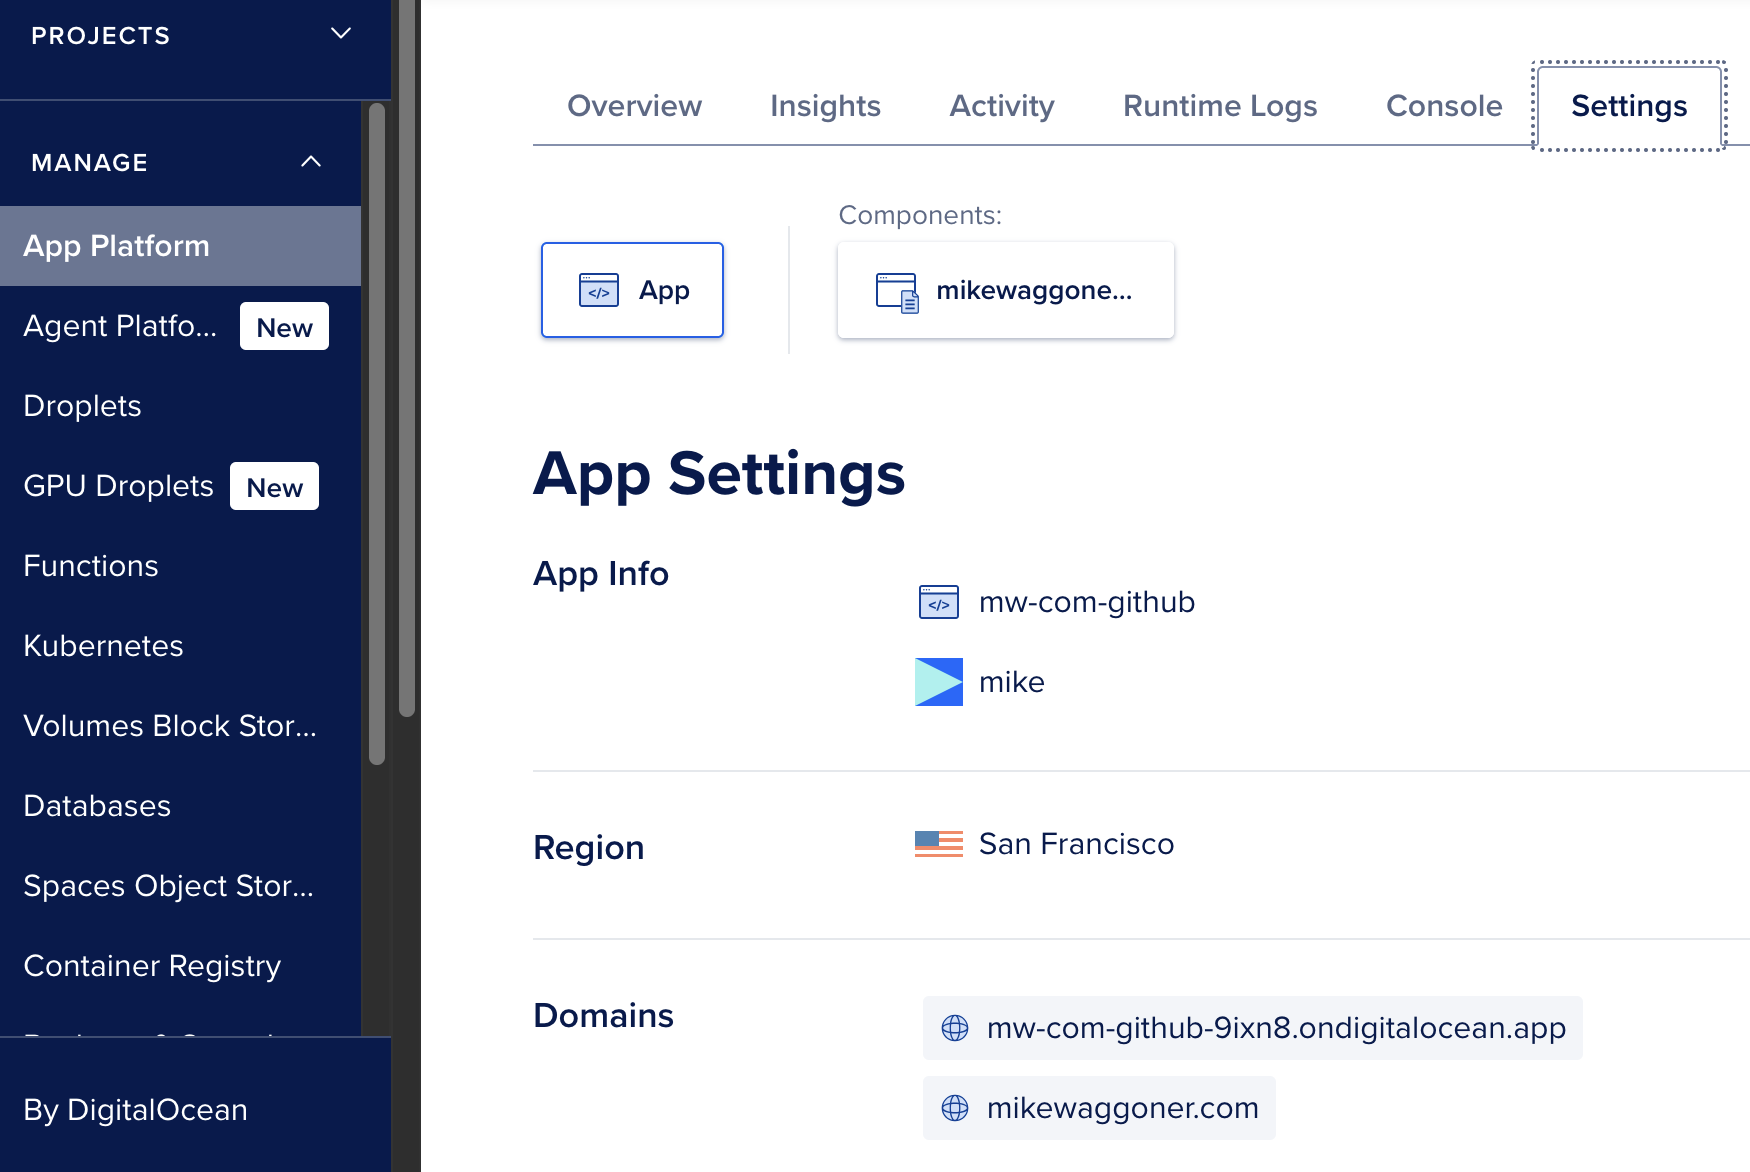
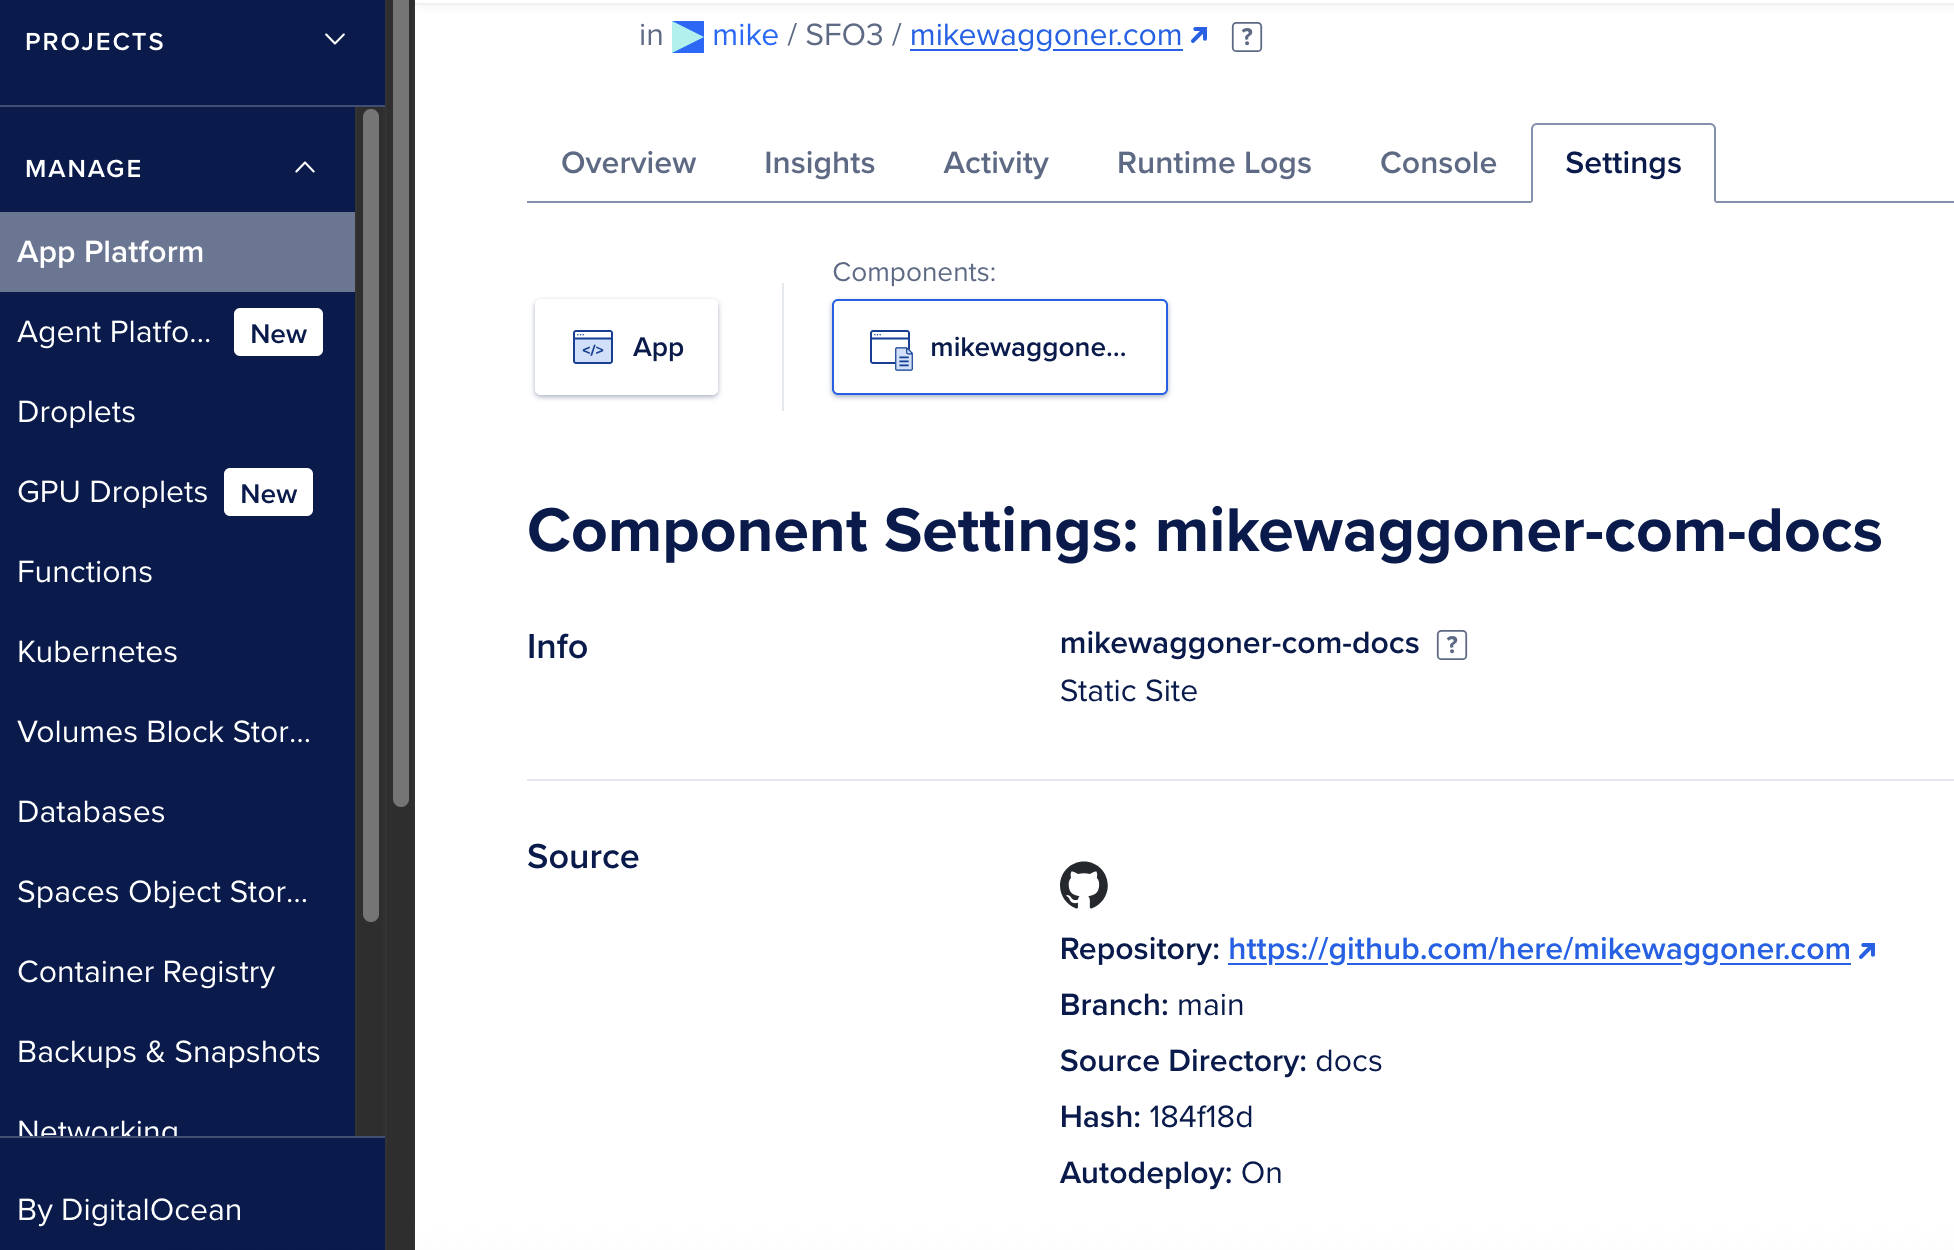
docs: digitalocean tm y swap images

diff --git a/README.md b/README.md
@@ -2,7 +2,7 @@
 
 This repo updates [mikewaggoner.com](https://mikewaggoner.com)
 
- - 2025 - Static site on [Digital Ocean - App Platform](https://docs.digitalocean.com/products/app-platform/)
+ - 2025 - Static site on [DigitalOcean - App Platform](https://docs.digitalocean.com/products/app-platform/)
  - 2024 - Static site on [Glitch](https://en.wikipedia.org/wiki/Glitch,_Inc.) with a Fastly CDN
  - Previously - Redirect to [herebox.org](https://herebox.org) personal site
 
@@ -12,6 +12,8 @@ Digital Ocean tutorial at [How To Deploy a Static Website to the Cloud with Digi
 
 For custom domains via CNAME records, add the custom domain must be added to App Platform -> Settings -> Domains .
 
-![Digital Ocean App Platform -> Settings](docs/assets/img/20250824-digital-ocean-app-settings.png)
+DigitalOcean -> App Platform -> Settings:
+![DigitalOcean App Platform -> Settings](docs/assets/img/20250824-digital-ocean-app-settings.png)
 
-![Digital Ocean App Platform -> Settings -> Component](docs/assets/img/20250824-digital-ocean-app-settings-component.png)
+DigitalOcean App Platform -> Settings -> Component:
+![DigitalOcean App Platform -> Settings -> Component](docs/assets/img/20250824-digital-ocean-app-settings-component.png)
